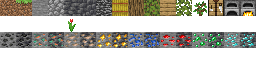
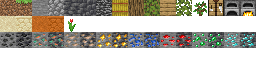
Add sand and make surface blocks customizable

Changed region(s): [[0.0, 0.2, 0.25, 0.4]]

diff --git a/src/world.rs b/src/world.rs
@@ -40,6 +40,7 @@ impl Plugin for WorldPlugin {
                         cave_divider: 140.,
 
                         air_porbality: 0.18,
+                        exposed_block_top_layer_height: 1,
                         exposed_block_layer_height: 3,
                         tree_chance: 8,
 
@@ -102,11 +103,12 @@ impl Plugin for WorldPlugin {
                         cave_divider: 140.,
 
                         air_porbality: 0.18,
-                        exposed_block_layer_height: 3,
+                        exposed_block_top_layer_height: 4,
+                        exposed_block_layer_height: 2,
                         tree_chance: 8,
 
-                        exposed_block_top: BlockKind::Cobblestone,
-                        exposed_block: BlockKind::Stone,
+                        exposed_block_top: BlockKind::Sand,
+                        exposed_block: BlockKind::Sandstone,
 
                         ores_map_step: 10,
 
@@ -194,6 +196,7 @@ struct BiomeSettings {
     cave_divider: f32,
 
     air_porbality: f32,
+    exposed_block_top_layer_height: i32,
     exposed_block_layer_height: i32,
     /// The greater the rarer
     tree_chance: i32,
@@ -390,11 +393,13 @@ fn generate_chunk(
                         _ => {}
                     }
 
-                    if height as i32 - y <= bstgs.exposed_block_layer_height {
+                    if height as i32 - y
+                        < bstgs.exposed_block_layer_height + bstgs.exposed_block_top_layer_height
+                    {
                         kind = bstgs.exposed_block;
                     }
 
-                    if y == height as i32 {
+                    if height as i32 - y < bstgs.exposed_block_top_layer_height {
                         kind = bstgs.exposed_block_top;
 
                         if rng.gen_bool(1. / bstgs.tree_chance as f64) {

diff --git a/src/block.rs b/src/block.rs
@@ -66,6 +66,10 @@ pub enum BlockKind {
     Furnace,
     FurnaceBurning,
     // row 2
+    Sand,
+    Sandstone,
+    RedSand,
+    RedSandstone,
     RedTulip,
     // row 3
     CoalOre,
@@ -108,6 +112,10 @@ impl BlockKind {
             Furnace => 14,
             FurnaceBurning => 15,
             // row 2
+            Sand => 16,
+            Sandstone => 17,
+            RedSand => 18,
+            RedSandstone => 19,
             RedTulip => 20,
             // row 3
             CoalOre => 32,
